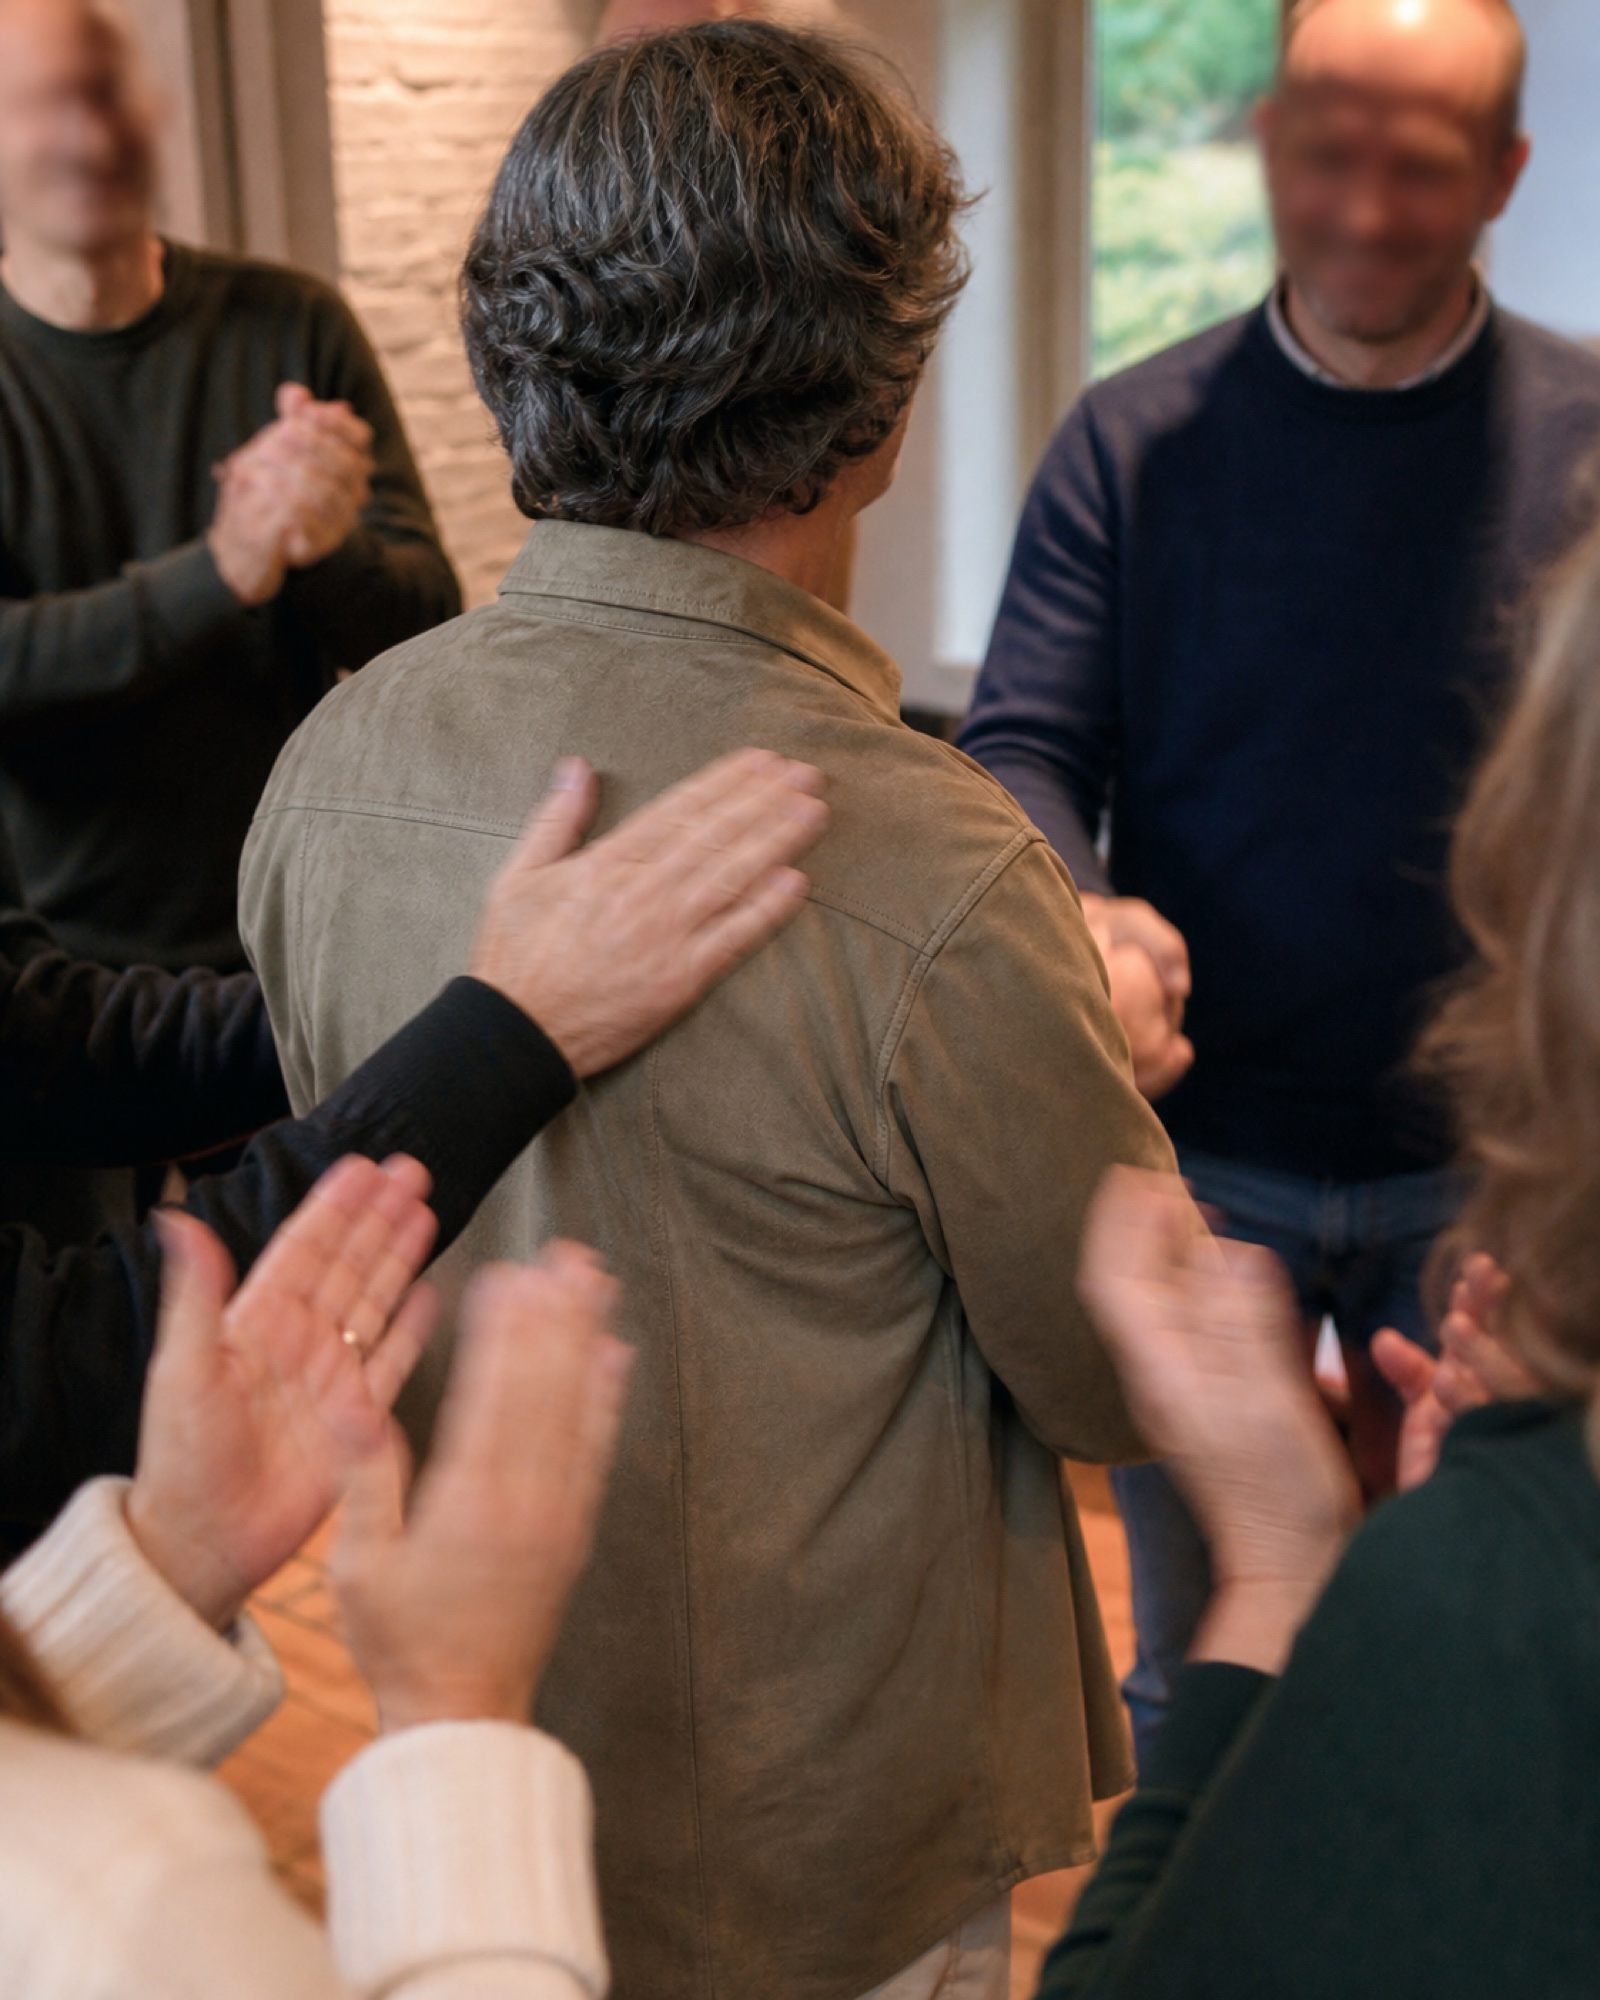
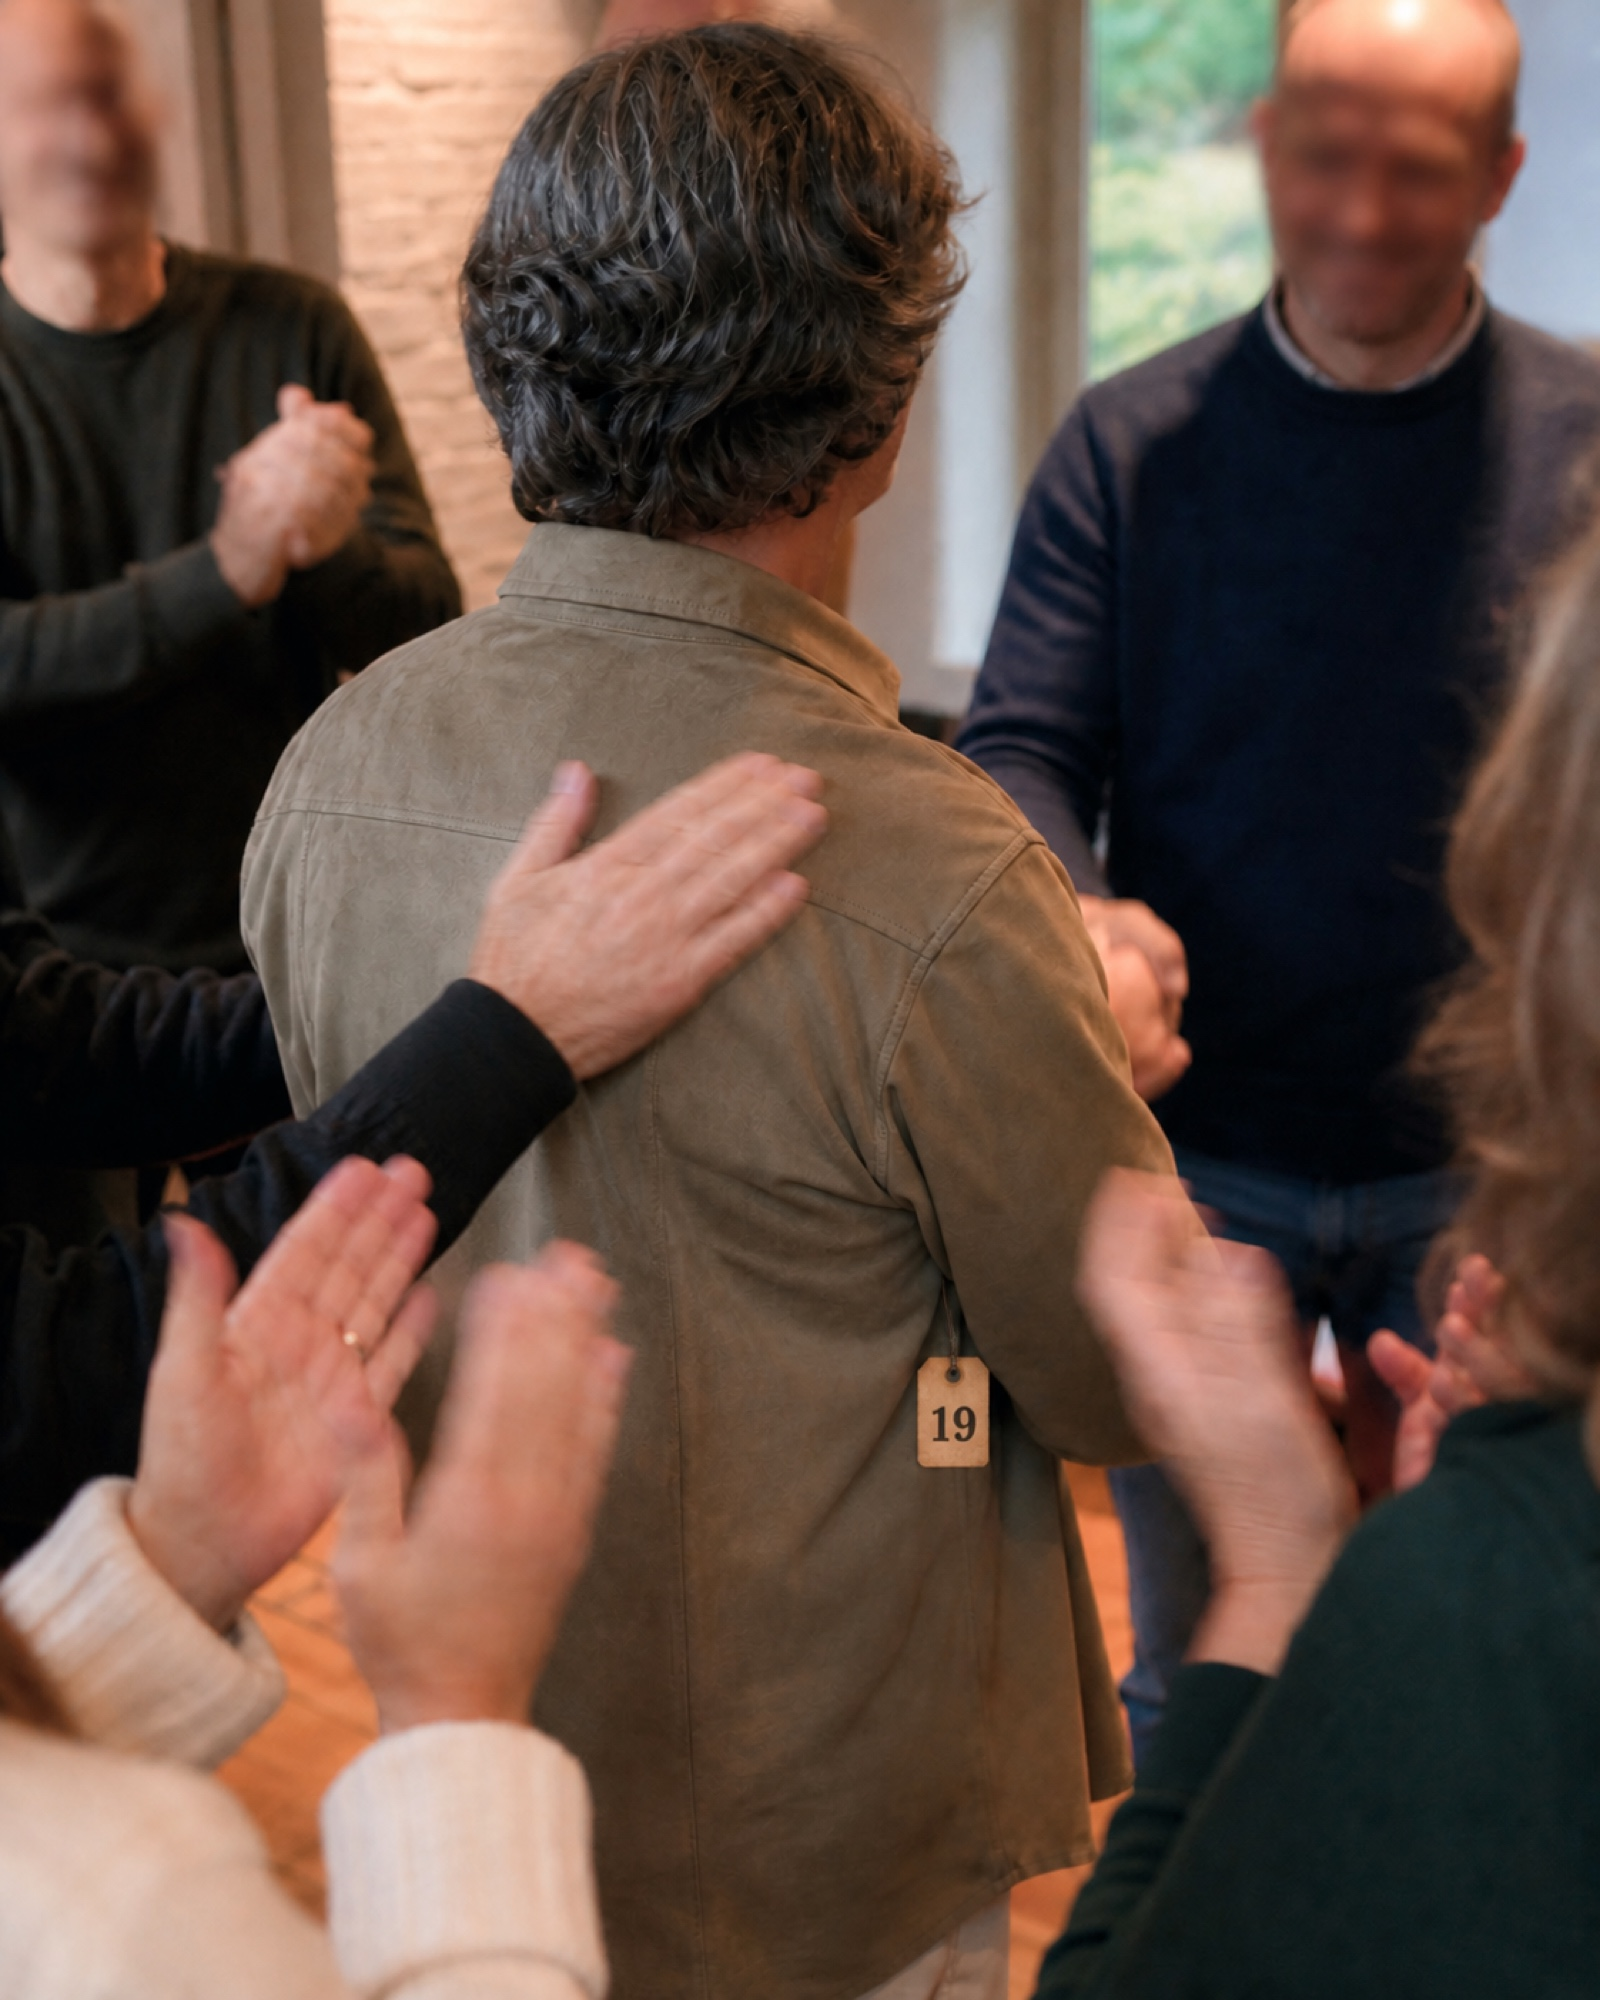
feat: hide stage 02 codes inside photo props

diff --git a/stage-packets/stage-02-photo-assets-task.md b/stage-packets/stage-02-photo-assets-task.md
@@ -1,0 +1,85 @@
+# 오르카 작업 지시서 — 02 숙소 사진 5장 생성 (v2: 번호표 숨기기)
+
+이 작업은 본향 사건파일 프로젝트의 일부다.
+반드시 다음 문서를 먼저 읽는다.
+- GAME_DEVELOPMENT_PLAN.md
+- stage-packets/stage-02.md
+- ORCA_DEVELOPMENT_WORKFLOW.md
+
+담당 파일 밖의 코드는 수정하지 않는다.
+정답, 완료 코드, 키워드, 준비물은 기존 표와 일치시킨다.
+
+## v1 대비 변경점
+
+v1에서는 사진 자체엔 아무 숫자도 없이, 도장 옆에 숫자를 "따로 인쇄해서 붙이는" 방식이었다. 그러면 참가자가 사진을 찾기만 하면 숫자는 바로 보여서 퍼즐이 아니라 라벨 읽기가 된다.
+
+v2는 잠금해제 숫자(`52`, `19`, `36`, `07`)를 **사진 장면 안에 소품으로 자연스럽게 숨긴다.** 5장 모두 같은 규칙을 쓴다: 어딘가에 매달린 **작은 원형/사각 번호표(클레임 티켓, 옷 보관소 물표 스타일)**가 있고, 거기 숫자가 적혀 있다. 참가자는 사진을 찾은 뒤 자세히 들여다봐야 숫자를 발견한다.
+
+5번째 사진(`photo-promise.jpg`, 약속 카드)만 예외로 **번호표가 전혀 없다** — 이건 의도된 서사 장치다(반납 대상이 아닌 유일한 원본이라는 뜻). 절대 5번에는 번호표나 숫자를 넣지 않는다.
+
+기존 `assets/stage-02/photo-*.jpg` 5개 파일을 덮어쓴다. 파일명은 v1과 동일.
+
+## 공통 지침
+
+- 세로 사진, 비율 4:5
+- 인쇄용 고해상도 (1600×2000px 이상), JPG
+- 사실적인 스냅샷 사진 느낌 — 일러스트/AI 티 나지 않게
+- 사람이 나오는 사진(1, 2, 3번)은 얼굴이 특정되지 않게 뒷모습/옆모습/흐림 처리
+- 번호표는 **찾는 데 5~10초 정도 걸리는 난이도**로: 화면 정중앙에 크게 두지 말고, 프레임 안쪽 자연스러운 위치(손에 든 것, 매달린 것, 걸려 있는 것)에 배치. 너무 작아서 인쇄해도 안 보이면 안 되고, 너무 커서 한눈에 보이면 안 됨
+- 번호표에 적히는 숫자 외에 다른 글자·로고는 넣지 않는다 (숫자만, 다른 텍스트 없이)
+- 번호표 모양/재질은 5장이 서로 통일감 있게: 작은 원형 또는 사각형 종이/나무/가죽 태그, 끈이나 클립으로 매달린 형태
+
+## 파일별 생성 프롬프트
+
+### 1. `assets/stage-02/photo-success.jpg` — 성공한 사람 (번호표: `52`)
+```
+시상식이나 졸업식 같은 실내 자리에서, 한 사람이 트로피나 상장을 들고 있는 순간을 찍은 듯한 사진. 그 사람은 뒷모습이거나 얼굴이 흐릿하게 보여서 누군지 특정되지 않게. 배경엔 박수치는 사람들이 흐릿하게 보임. 따뜻한 오후 실내 조명, 살짝 아마추어스러운 휴대폰 사진 구도.
+트로피 손잡이나 상장 리본에 작은 원형 종이 번호표가 끈으로 매달려 있고, 거기에 숫자 "52"만 손글씨나 도장체로 적혀 있음. 번호표는 눈에 띄지만 사진 정중앙은 아닌 위치에. 그 외에 다른 글자나 로고는 없음.
+```
+
+### 2. `assets/stage-02/photo-approval.jpg` — 인정받는 사람 (번호표: `19`)
+```
+여러 사람에게 둘러싸여 박수를 받거나 악수·어깨를 두드림 당하는 순간을 찍은 사진. 중심 인물은 뒷모습이나 옆모습으로, 얼굴이 특정되지 않게. 따뜻한 실내 조명, 손동작에 살짝 흔들림(모션블러) 느낌.
+중심 인물의 옷깃이나 손목에 작은 사각 종이 번호표가 클립이나 끈으로 달려 있고, 숫자 "19"만 적혀 있음. 번호표는 살짝 흔들린 손들 사이로 보이되, 자세히 봐야 알아볼 수 있는 위치에. 그 외 다른 글자나 로고는 없음.
+```
+
+### 3. `assets/stage-02/photo-welcome.jpg` — 이달의 새 가족 (번호표: `36`)
+```
+노을 지는 저녁, 갓 지어진 듯한 작은 새 집 앞에서 낯선 가족이 서로 어깨동무하고 서 있는 기념사진. 마당엔 아직 조경이 안 되어 있어 새집 느낌. 사람들은 뒷모습이거나 멀리서 찍어서 얼굴이 잘 안 보이게. 따뜻하고 살짝 바랜 색감.
+현관문 손잡이나 열쇠고리에 작은 나무 번호표가 매달려 있고, 숫자 "36"만 적혀 있음. 번호표는 배경 쪽 문 근처라 한눈에 안 띄고 자세히 봐야 보임. 간판이나 다른 글자는 없음.
+```
+
+### 4. `assets/stage-02/photo-checkout.jpg` — 퇴실 안내 사본 (번호표: `07`)
+```
+나무로 된 문에 마스킹테이프로 살짝 삐뚤게 붙어 있는 A5 크기 안내문을 클로즈업으로 찍은 사진. 종이 맨 위에 "퇴실 안내"라는 검은색 인쇄 글씨가 보이고, 그 아래 몇 줄은 흐릿해서 안 읽힘. 자연광, 약간의 반사광. 모서리가 살짝 말려있음.
+안내문 한쪽 모서리에 작은 종이 번호표가 스테이플러나 클립으로 고정돼 있고, 숫자 "07"만 적혀 있음. 번호표는 안내문 텍스트보다는 작게, 모서리 쪽이라 바로 눈에 띄지 않는 위치.
+```
+
+### 5. `assets/stage-02/photo-promise.jpg` — 약속 카드 03/16 (번호표 없음)
+```
+나무 테이블 위에 놓인, 낡고 살짝 접힌 작은 종이 카드 한 장을 클로즈업으로 찍은 사진. 파란 볼펜 손글씨로 "03/16"과 "약속"이라고 적혀 있음. 코팅되지 않은 누렇게 바랜 종이, 도장이나 다른 표시는 없음. 옆에서 들어오는 부드러운 창문 빛, 배경은 흐릿하게.
+이 사진에는 번호표나 태그, 끈, 클립 같은 것을 절대 넣지 않는다 — 다른 4장과 달리 이 카드는 아무것도 매달려 있지 않은 상태여야 한다.
+```
+
+## 완료 확인
+
+- [ ] 5개 파일이 `assets/stage-02/`에 정확한 파일명으로 저장됐다 (기존 v1 파일 덮어쓰기).
+- [ ] 각 파일이 4:5 세로 비율, 1600×2000px 이상이다.
+- [ ] 1~4번 사진 안에 각각 번호표가 있고, 숫자가 정확히 52 / 19 / 36 / 07이다.
+- [ ] 5번 사진(약속 카드)에는 번호표가 전혀 없다.
+- [ ] 번호표 숫자를 제외하고 사진 안에 다른 글자·로고·워터마크가 없다.
+- [ ] 번호표가 한눈에 안 보이고 자세히 봐야 찾을 수 있는 위치에 있다.
+
+## 작업 완료 보고 형식
+
+```text
+[완료 보고]
+담당 카드: 02 숙소 사진 자산 (v2, 번호표 숨기기)
+변경 파일: assets/stage-02/photo-*.jpg (5개, v1 덮어씀)
+핵심 변경:
+정답/코드 변경 여부: 없음 (52/19/36/07 그대로, 표시 방식만 변경)
+실행한 테스트:
+인쇄물 반영 필요 여부: 있음 — v1 인쇄 계획이 "도장 옆 별도 숫자 인쇄"였다면 이제 불필요, 사진 자체에 숫자가 있음. 도장 문구만 별도 인쇄.
+남은 위험:
+통합 담당에게 요청: 각 번호표 숫자가 실제로 육안 판독 가능한지, A6 인쇄 크기에서도 읽히는지 확인 부탁
+```
